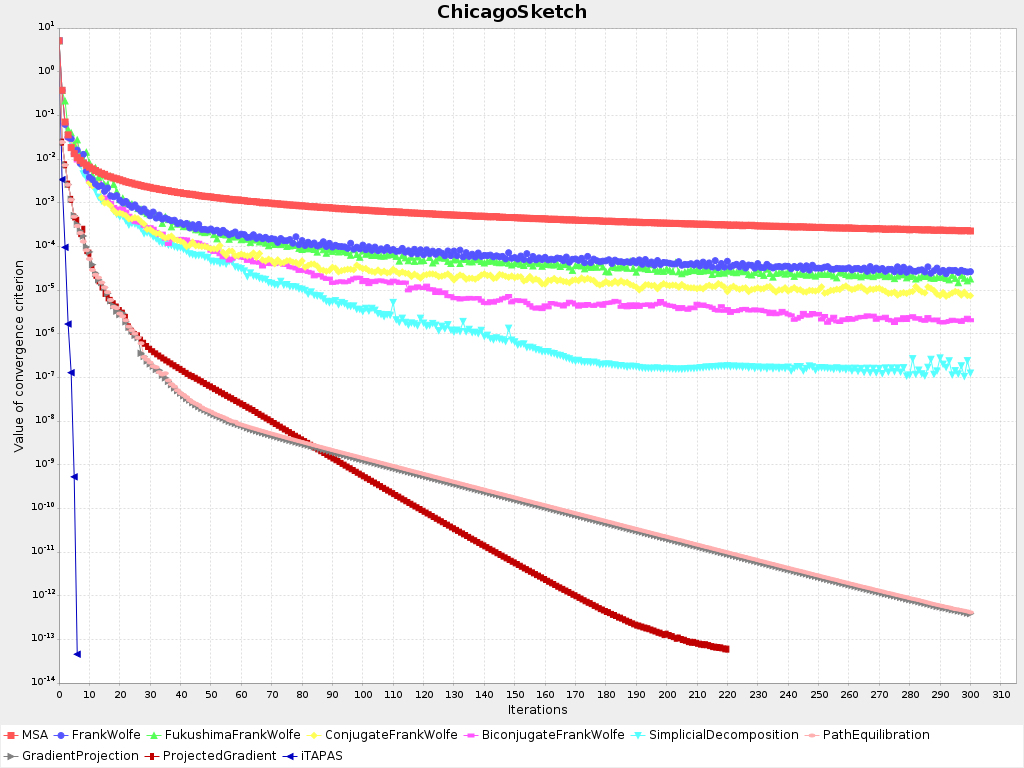
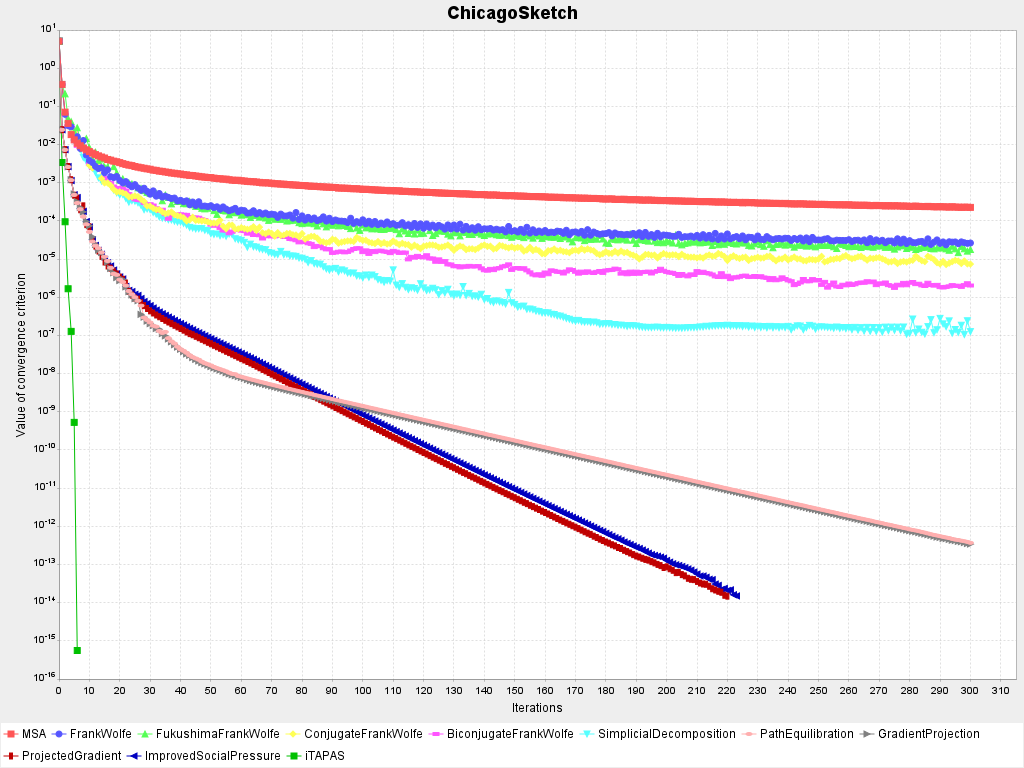
Finish ImprovedSocialPressure algorithm

diff --git a/src/main/java/black0ut1/static_/assignment/path/ImprovedSocialPressure.java b/src/main/java/black0ut1/static_/assignment/path/ImprovedSocialPressure.java
@@ -20,6 +20,7 @@ public class ImprovedSocialPressure extends ProjectedGradient {
 	protected double[] calculateStepDirection(int origin, int destination, Path basicPath) {
 		var paths = odPairs.get(origin, destination);
 		
+		// 1. Determine pi
 		double[] costs =  new double[paths.size()];
 		double maxPathCost = Double.NEGATIVE_INFINITY, minPathCost = Double.POSITIVE_INFINITY;
 		
@@ -37,21 +38,24 @@ public class ImprovedSocialPressure extends ProjectedGradient {
 		
 		double[] stepDirection = new double[paths.size()];
 		
-		// Compute direction for paths with cost <= pi
+		// 2. Compute direction for paths with cost > pi
 		double sum = 0;
 		for (int i = 0; i < paths.size(); i++) {
-			if (costs[i] <= pi) {
+			if (costs[i] > pi) {
 				stepDirection[i] = minPathCost - costs[i];
 				sum += stepDirection[i];
 			}
 		}
 		
-		// Compute direction for paths with cost > pi
+		double rectification = sum;
+		
+		// 3. Compute direction for paths with cost <= pi
+		// 3.1  Compute derivatives of these paths and sum of their inverses
 		double[] costDerivatives = new  double[paths.size()];
 		double invSum = 0;
 		for (int i = 0; i < paths.size(); i++) {
 			
-			if (costs[i] > pi) {
+			if (costs[i] <= pi) {
 				for (int edgeIndex : paths.get(i).edges) {
 					Network.Edge edge = network.getEdges()[i];
 					costDerivatives[i] += costFunction.derivative(edge, flows[edgeIndex]);
@@ -60,11 +64,17 @@ public class ImprovedSocialPressure extends ProjectedGradient {
 			}
 		}
 		
+		// 3.2 Compute the direction
 		for (int i = 0; i < paths.size(); i++) {
-			if (costs[i] > pi) {
+			if (costs[i] <= pi) {
 				stepDirection[i] = -sum / (costDerivatives[i] * invSum);
+				rectification += stepDirection[i];
 			}
 		}
+		
+		// Rectify step direction such that the sum is 0 - without it, the errors of
+		// double precision will induce infeasible flows
+		stepDirection[stepDirection.length - 1] -= rectification;
 		
 		return stepDirection;
 	}

diff --git a/src/main/java/black0ut1/static_/assignment/path/ProjectedGradient.java b/src/main/java/black0ut1/static_/assignment/path/ProjectedGradient.java
@@ -24,7 +24,7 @@ public class ProjectedGradient extends PathBasedAlgorithm {
 	
 	@Override
 	protected void equilibratePaths(int origin, int destination, Path basicPath) {
-		double[] stepDirection = calculateStepDirection(origin, destination);
+		double[] stepDirection = calculateStepDirection(origin, destination, basicPath);
 		if (stepDirection == null)
 			return;
 		
@@ -35,7 +35,7 @@ public class ProjectedGradient extends PathBasedAlgorithm {
 		shiftFlows(origin, destination, stepDirection, stepSize);
 	}
 	
-	protected double[] calculateStepDirection(int origin, int destination) {
+	protected double[] calculateStepDirection(int origin, int destination, Path basicPath) {
 		Vector<Path> paths = odPairs.get(origin, destination);
 		
 		double averageTravelTime = 0;
@@ -62,13 +62,12 @@ public class ProjectedGradient extends PathBasedAlgorithm {
 		double rectification = 0;
 		for (int i = 0; i < stepDirection.length; i++) {
 			stepDirection[i] = averageTravelTime - stepDirection[i];
-			
-			if (i != stepDirection.length - 1)
-				rectification += stepDirection[i];
+			rectification += stepDirection[i];
 		}
-		// Rectify step direction such that the sum is 0 - without it, the algorithm stops
-		// converging and the relative gap starts oscillating at ~1e-8
-		stepDirection[stepDirection.length - 1] = -rectification;
+		
+		// Rectify step direction such that the sum is 0 - without it, the errors of
+		// double precision will induce infeasible flows
+		stepDirection[stepDirection.length - 1] -= rectification;
 		
 		return stepDirection;
 	}

diff --git a/src/test/java/black0ut1/RelativeGapVisualizationIntegrationTest.java b/src/test/java/black0ut1/RelativeGapVisualizationIntegrationTest.java
@@ -28,7 +28,7 @@ public class RelativeGapVisualizationIntegrationTest {
 	static Class<? extends Algorithm>[] algorithms = new Class[]{
 			MSA.class, FrankWolfe.class, FukushimaFrankWolfe.class, ConjugateFrankWolfe.class,
 			BiconjugateFrankWolfe.class, SimplicialDecomposition.class,
-			PathEquilibration.class, GradientProjection.class, ProjectedGradient.class,
+			PathEquilibration.class, GradientProjection.class, ProjectedGradient.class, ImprovedSocialPressure.class,
 			iTAPAS.class,
 	};
 	
@@ -65,7 +65,7 @@ public class RelativeGapVisualizationIntegrationTest {
 	void runAlgorithm(Class<? extends Algorithm> algorithm) throws InvocationTargetException, InstantiationException, IllegalAccessException {
 		Object[] arguments = new Object[]{network, odm, costFunction, maxIterations, builder.setCallback(values -> {
 			double relativeGap = values[Convergence.Criterion.RELATIVE_GAP_1.ordinal()];
-			panel.addValue(relativeGap, algorithm.getSimpleName());
+			panel.addValue(relativeGap + 0.000000000000005, algorithm.getSimpleName());
 		})};
 		if (PathBasedAlgorithm.class.isAssignableFrom(algorithm)) {
 			arguments = Util.concat(Object.class, arguments, new Object[] {PathBasedAlgorithm.ShortestPathStrategy.SSSP});

diff --git a/README.md b/README.md
@@ -35,6 +35,7 @@ Path-based algorithms:
 - Path Equilibration
 - Gradient Projection
 - Projected Gradient
+- Improved Social Pressure
 
 Bush-based algorithms:
 
